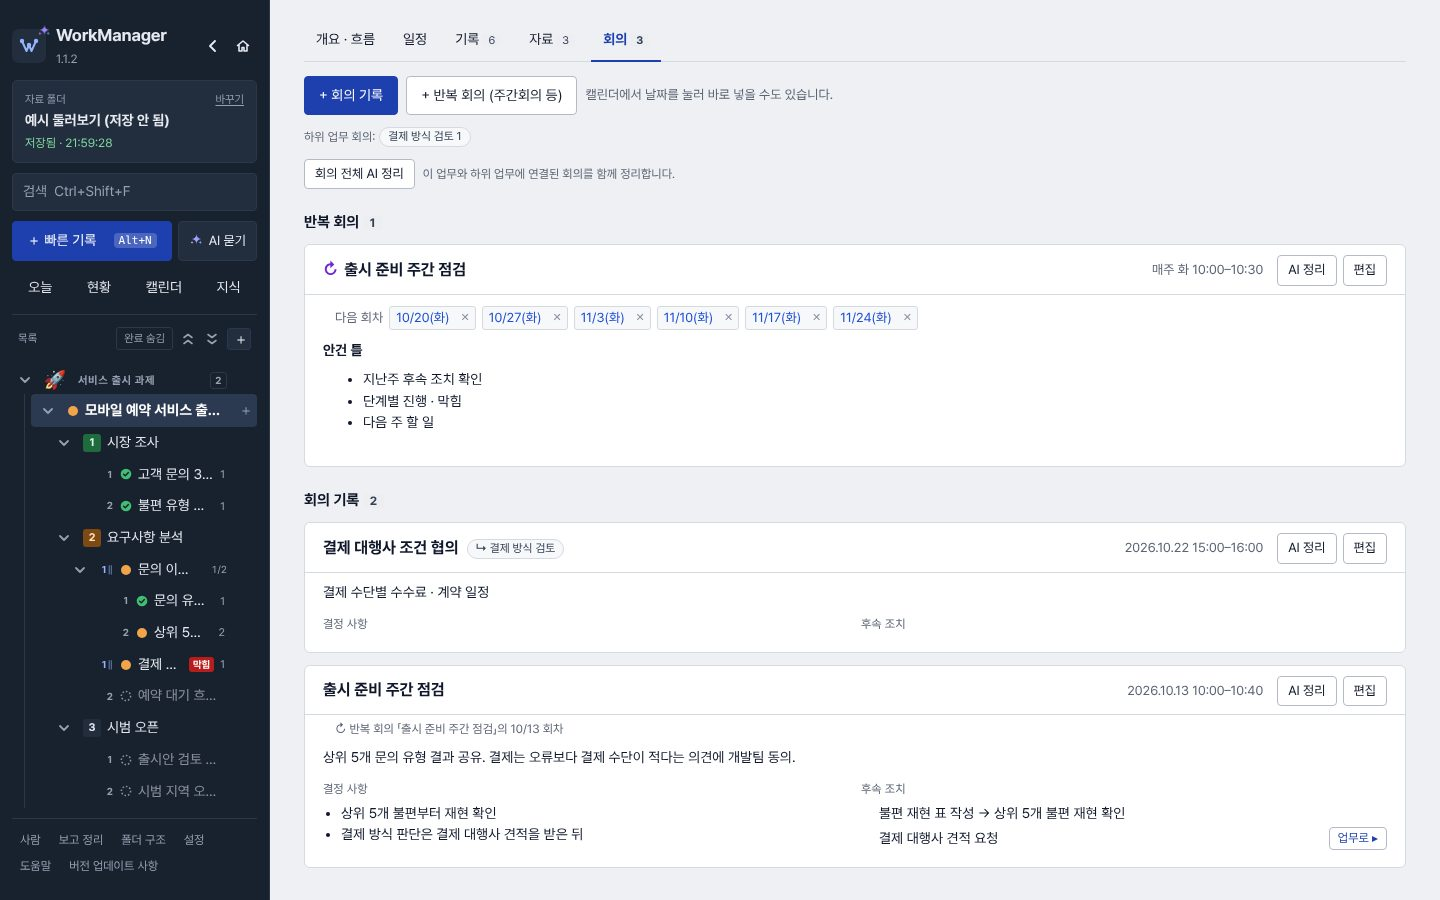
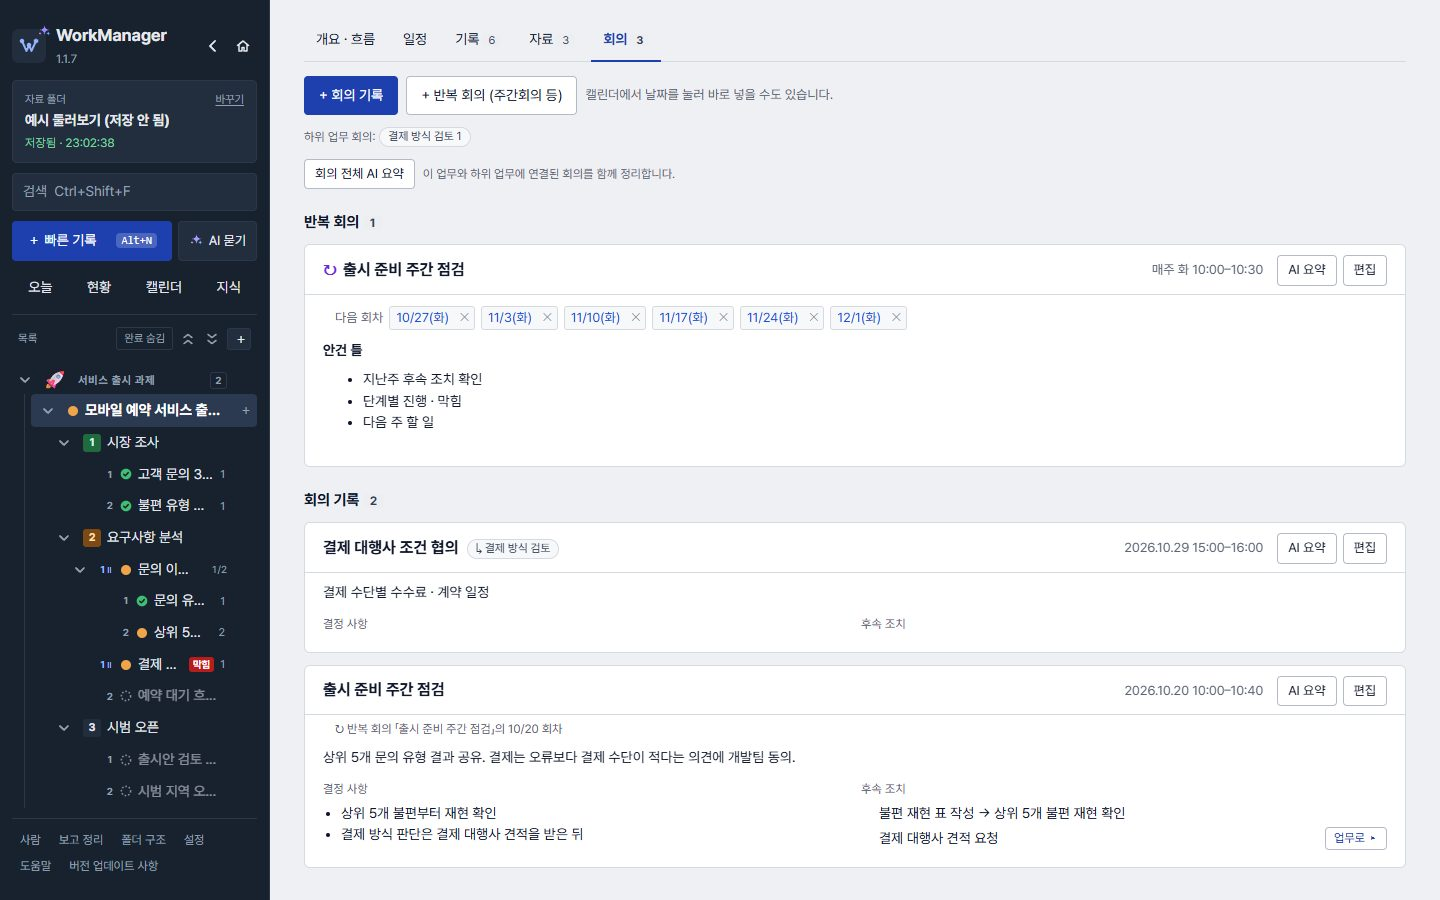
docs: WorkManager 1.1.7 안내와 설명서 갱신
Agent: Codex

diff --git a/README.md b/README.md
@@ -2,18 +2,34 @@
 
 흐름으로 업무를 관리하고, 쌓인 기록을 AI로 요약·정리하는 Windows 개인 업무 관리 앱입니다.
 
-**최신 버전: 1.1.6** · Windows (x64)
+**최신 버전: 1.1.7** · Windows (x64)
 
 | 필요한 것 | 바로가기 |
 |---|---|
 | 프로그램 | [WorkManager.exe 다운로드](https://github.com/1821rpm/workmanager/releases/latest/download/WorkManager.exe) |
 | 사용 설명서 | **[GitHub에서 바로 읽기](manual/README.md)** |
-| 오프라인 설명서 | [Releases](https://github.com/1821rpm/workmanager/releases/latest)의 [WorkManager-Manual-1.1.6.html](https://github.com/1821rpm/workmanager/releases/download/v1.1.6/WorkManager-Manual-1.1.6.html) — 받은 파일을 더블클릭하면 브라우저에서 열립니다 |
+| 오프라인 설명서 | [Releases](https://github.com/1821rpm/workmanager/releases/latest)의 [WorkManager-Manual-1.1.7.html](https://github.com/1821rpm/workmanager/releases/download/v1.1.7/WorkManager-Manual-1.1.7.html) — 받은 파일을 더블클릭하면 브라우저에서 열립니다 |
 | 변경 내용 · 이전 버전 | [Releases](https://github.com/1821rpm/workmanager/releases) |
 
 ![프로젝트의 개요와 업무 흐름](manual/img/04-project.jpg)
 
 자료 형식 v6를 유지하며 기존 자료 폴더와 AI 연결 설정을 이어 사용합니다.
+
+## 1.1.7에서 달라진 점
+
+- 이력은 어디에 있든 같은 단추를 씁니다 — 크게 보기 · 편집 · 옮기기… · 휴지통으로 · 이 업무로(다른 업무의 이력일 때). 오른쪽 클릭 「이력」 묶음에도 옮기기·휴지통이 있습니다.
+- 일상 업무·그룹의 「기록」 탭도 다른 프로젝트와 같은 이력 화면입니다. 일상 업무에 바로 적은 이력도 편집·옮기기·휴지통이 됩니다.
+- 이력 흐름의 「모두 펼치기」는 모든 이력을 펼치고, 흐름 목록에 펼친 이력이 옅게 칠해집니다. 내려 읽으면 지금 보이는 이력의 번호가 진하게 따라갑니다.
+- 글을 골라 「AI ▸ 요약」을 누르면 한 줄 요약과 핵심 3개가 함께 나옵니다. 표가 필요하면 창 위 탭에서 「표로 정리」를 고릅니다.
+- AI 답의 「복사」는 근거 번호를 빼고 복사하고, ▾ 「근거 포함 복사」는 번호 대신 기록 이름·날짜를 붙입니다.
+- 자료의 링크 주소·경로는 그 줄의 「편집」으로 고칩니다. 상위 화면에서 펼친 하위 업무 자료도 고칠 수 있습니다.
+- AI 연결은 설정 › AI 연결의 「연결 코드 복사」로 한 줄 글자로 보내고, 받는 쪽은 복사한 뒤 「연결 코드 넣기」를 누릅니다. 받은 설정 파일은 창에 끌어다 놓아도 됩니다.
+- Windows 시작 때 자동으로 켜지는 것이 기본입니다. 설정 › 시작 · 알림에서 끌 수 있습니다.
+- 자료 형식 v6와 기존 자료 폴더·AI 연결 설정을 이어 사용합니다. 연결 코드와 설정 파일 끌어다 놓기는 1.1.7 EXE(Native API 12)가 필요합니다.
+- 연결 코드는 암호화가 아니라 글자로 바꾼 것입니다 — 키를 넣었다면 받을 사람에게만 보내세요.
+- 화면 용어를 맞췄습니다: 상위 업무, 회의 AI 요약, 다시 만들기, 크게 보기, 이력만 보기.
+- 설명서 그림 15장은 1.1.7 화면의 합성 예시로 다시 만들었으며, 요약 확인 그림 1장은 기존 합성 예시를 포함합니다.
+
 
 ## 1.1.6에서 달라진 점
 
